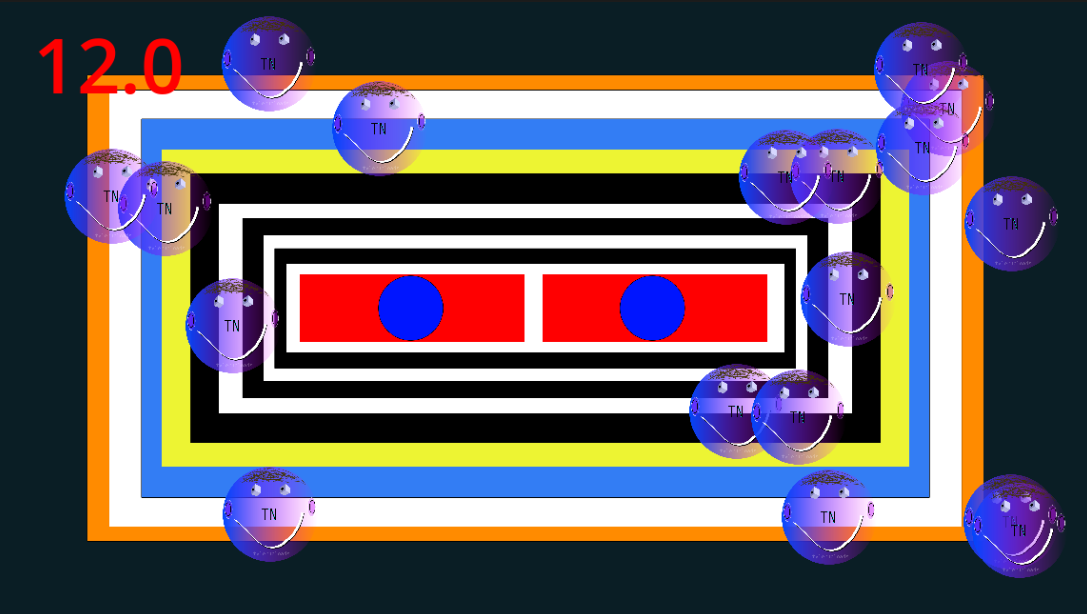
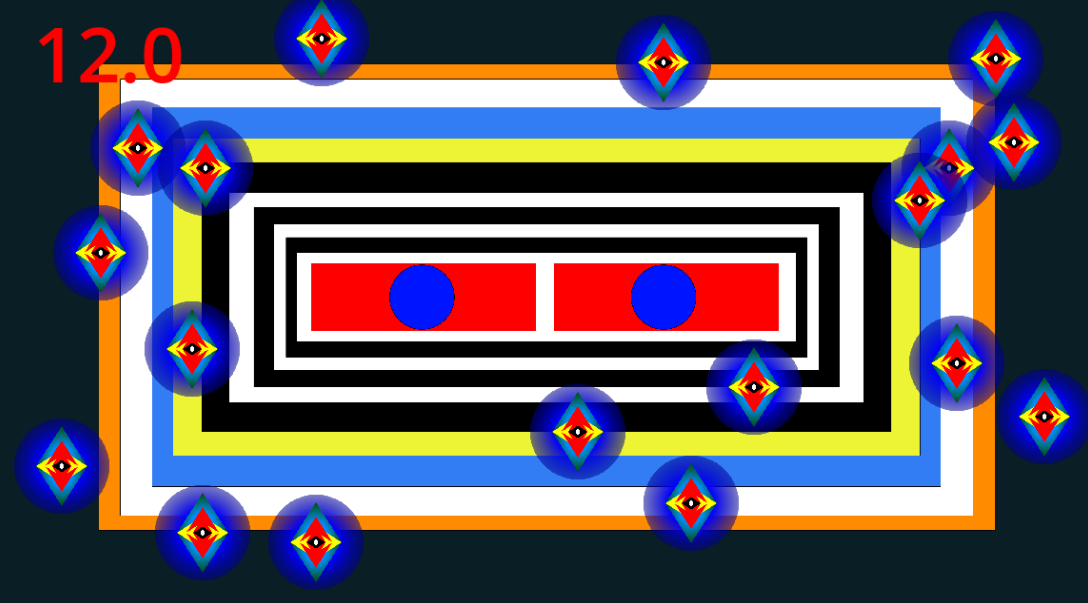
Replace tyleruploads orbs with unnamed orbs in minigame two

diff --git a/README.md b/README.md
@@ -31,7 +31,7 @@ In minigame 1, "Orb Collection Platformer," you have 25 seconds to collect 7 tyl
 
 ### Minigame 2: Orb Collection Clicker
 
-In minigame 2, "Orb Collection Clicker," you have 12 seconds to click 18 tyleruploads circles. Each pixel has a diameter of 50 pixels.
+In minigame 2, "Orb Collection Clicker," you have 12 seconds to click on 18 orbs.
 
 ![Hero image for the second minigame, clicker](./media/docs/minigame-2-hero.png)
 
